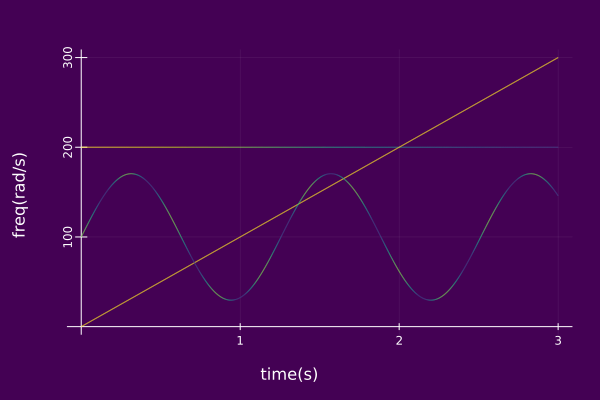
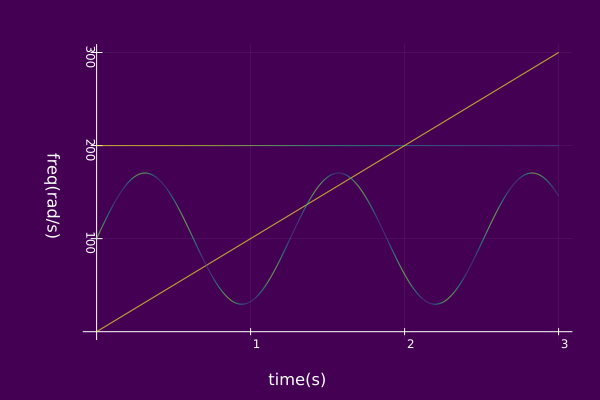
update IS plot with view option

diff --git a/docs/src/basics/spectra.md b/docs/src/basics/spectra.md
@@ -25,17 +25,14 @@ plot(𝑆; timeaxis=0.0:0.001:3.0)
 ```
 ![](https://raw.githubusercontent.com/NMSU-ISA/ISA/master/docs/src/assets/IS_ex1.png)
 
-We can visualize the time-frequency plane associated with the IS (i.e. the 2D IS) plot via an orthographic projection of the 3D IS
+We can visualize the time-frequency plane associated with the IS (i.e. the 2D IS) by using the parameter `view`, which is an orthogonal projections of the 3D IS.
 ```julia
 using ISA, Plots
 𝐶₀ = AMFMtriplet(t->exp(-t^2/5),t->200.0,0.0)
 𝐶₁ = AMFMtriplet(t->1.0,t->100*t,0.1)
 𝐶₂ = AMFMtriplet(t->0.8*cos(11t),t->100 + 70.5*sin(5t),π)
 𝑆 = compSet([𝐶₀,𝐶₁,𝐶₂])
-plot(𝑆; timeaxis=0.0:0.001:3.0)
-plot!( camera=(0,90),
-       zlabel="", zticks=:false,
-       left_margin=15Plots.mm, margin=5Plots.mm,
-       yrotation = 90, ymirror=true)
+plot(𝑆,timeaxis=0.0:0.001:3.0,view="TF",
+left_margin=15Plots.mm, margin=5Plots.mm)
 ```
 ![](https://raw.githubusercontent.com/NMSU-ISA/ISA/master/docs/src/assets/IS_ex2.png)
